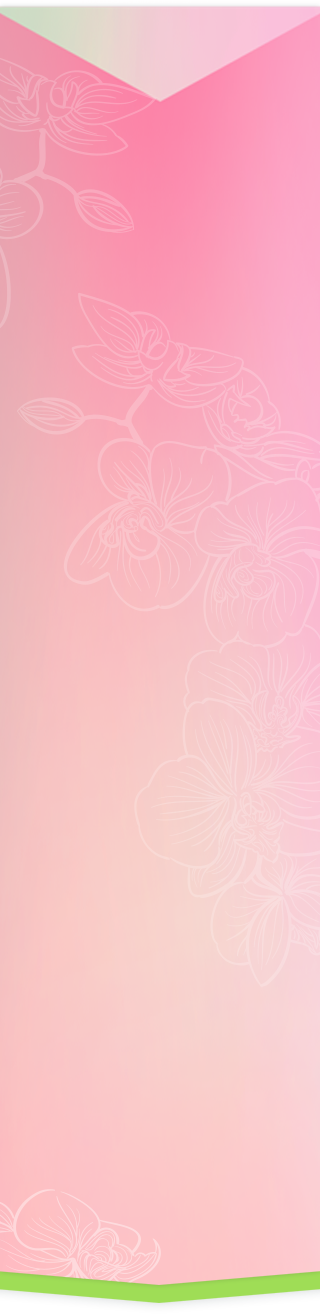
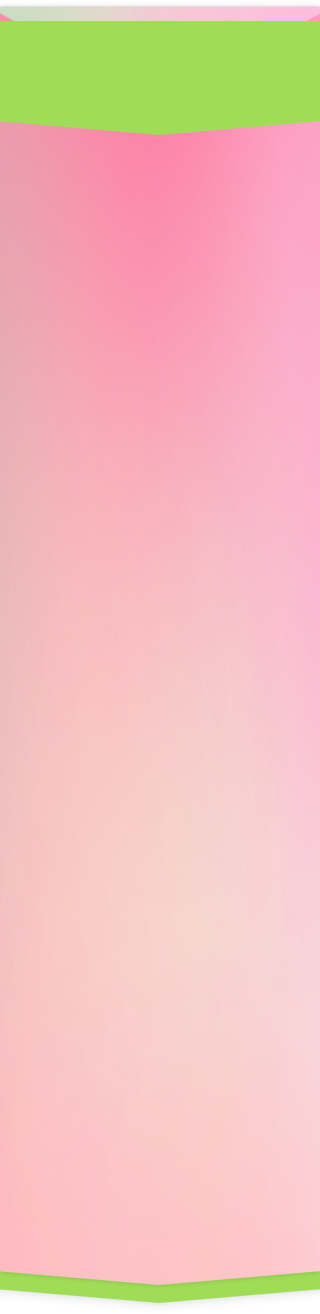
Fixed styles in mobile version

Changed region(s): [[0.0, 0.0, 1.0, 0.1248], [0.2188, 0.9361, 0.25, 0.9673], [0.0312, 0.9049, 0.0625, 0.9361]]

diff --git a/css/styles.css b/css/styles.css
@@ -211,8 +211,9 @@ body {
 
 .works {
     background: url("../img/works_bg_mobile.png") no-repeat;
-    background-position: 0 -62px;
+    background-position: 0 -65px;
     margin-top: -17px;
+    padding-bottom: 10px;
 }
 .block-title {
     display: flex;
@@ -265,7 +266,8 @@ body {
     padding-top: 15px;
     padding-bottom: 59px;
     background-image: url("../img/programm_bg-mobile.png");
-    background-position: 0 -122px;
+    background-position: 0 -124px;
+    background-size: 103%;
 }
 .block-title__content-programm {
     margin: 15px 10px 15px 10px;
@@ -426,25 +428,6 @@ form {
     margin: 20px 50px;
     border-bottom: 1px solid #ff6e9c;
 }
-/*======FOOTER======*/
-.footer {
-    margin-top: 1282px;
-    background-color: #767485;
-}
-.main-footer__copyright {
-    margin: 0;
-    padding: 20px;
-    text-align: center;
-}
-.main-footer__copyright span {
-    display: block;
-    color: #fff;
-    font-family: "Fira Sans Light", "Arial", sans-serif;
-    font-size: 14px;
-}
-.main-footer__copyright span:first-child::before {
-    content: '\00a9';
-}
 
 .swiper-button-next {
     width: 17px;
@@ -464,8 +447,10 @@ form {
 
 .reviews {
     background: url("../img/reviews-bg-mobile.png") no-repeat;
-    background-position: 0 -45px;
+    background-position: 0 -106px;
     padding-bottom: 100px;
+    padding-top: 20px;
+    margin-top: -17px;
 }
 
 .block-title__content_grey {
@@ -589,7 +574,8 @@ form {
     padding-bottom: 38px;
     background: url("../img/advantages-bg-mobile.png") no-repeat;
     background-position: 0 -42px;
-    margin-top: -16px;
+    background-size: 104%;
+    margin-top: -23px;
     font-family: "Fira Sans Light", "Arial", sans-serif;
     text-align: center;
 }
@@ -672,7 +658,7 @@ form {
     letter-spacing: 0.2px;
 }
 .advantages__form {
-    margin-top: 47px;
+    margin-top: 20px;
     margin-left: 27px;
     margin-right: 27px;
     padding: 10px 19px;
@@ -699,7 +685,7 @@ form {
 
 /*=======FAQ=======*/
 .faq {
-    padding: 110px 30px 175px 30px;
+    padding: 130px 30px 175px 30px;
     background-image: url("../img/faq_bg_mobile.png");
     background-position: 0 -89px;
 }
@@ -715,6 +701,7 @@ form {
 }
 .faq__item {
     font-size: 14px;
+    color: #515067;
 }
 .fqa__item-title {
     padding: 15px 27px;
@@ -734,8 +721,9 @@ form {
 /*======ADD QUESTIONS=====*/
 
 .add-questions {
-    background: url(../img/addQuestion-bg-mobile.png) no-repeat center;
-    min-height: 916px;
+    background: url(../img/addQuestion-bg-mobile.png) no-repeat 0 0;
+    background-size: 107%;
+    padding-bottom: 35px;
     font-family: "Fira Sans Light", "Arial", sans-serif;
     color: white;
 }
@@ -744,6 +732,7 @@ form {
     font-size: 18px;
     line-height: 25px;
     font-weight: 600;
+    border-bottom: none;
 }
 
 .add-questions__container {
@@ -793,9 +782,11 @@ form {
 }
 
 .add-questions__form {
-    margin-top: 548px;
     padding: 0 25px;
+    padding-bottom: 40px;
+    margin-top: 40px;
 }
+
 .form__title_add-questions {
     margin: 0;
     margin-bottom: 12px;
@@ -803,16 +794,36 @@ form {
     font-size: 18px;
     text-transform: uppercase;
 }
+
 .form__input_add-questions {
     padding: 20px 15px;
     font-family: "Fira Sans Regular", "Arial", sans-serif;
     font-size: 18px;
 }
+
 .form__btn_add-questions {
     padding: 18px 0;
     font-family: "Fira Sans Medium", "Arial", sans-serif;
     font-size: 18px;
 }
 
+/*======FOOTER======*/
+.footer {
+    background-color: #767485;
+}
+.main-footer__copyright {
+    margin: 0;
+    padding: 20px;
+    text-align: center;
+}
+.main-footer__copyright span {
+    display: block;
+    color: #fff;
+    font-family: "Fira Sans Light", "Arial", sans-serif;
+    font-size: 14px;
+}
+.main-footer__copyright span:first-child::before {
+    content: '\00a9';
+}
 
 
